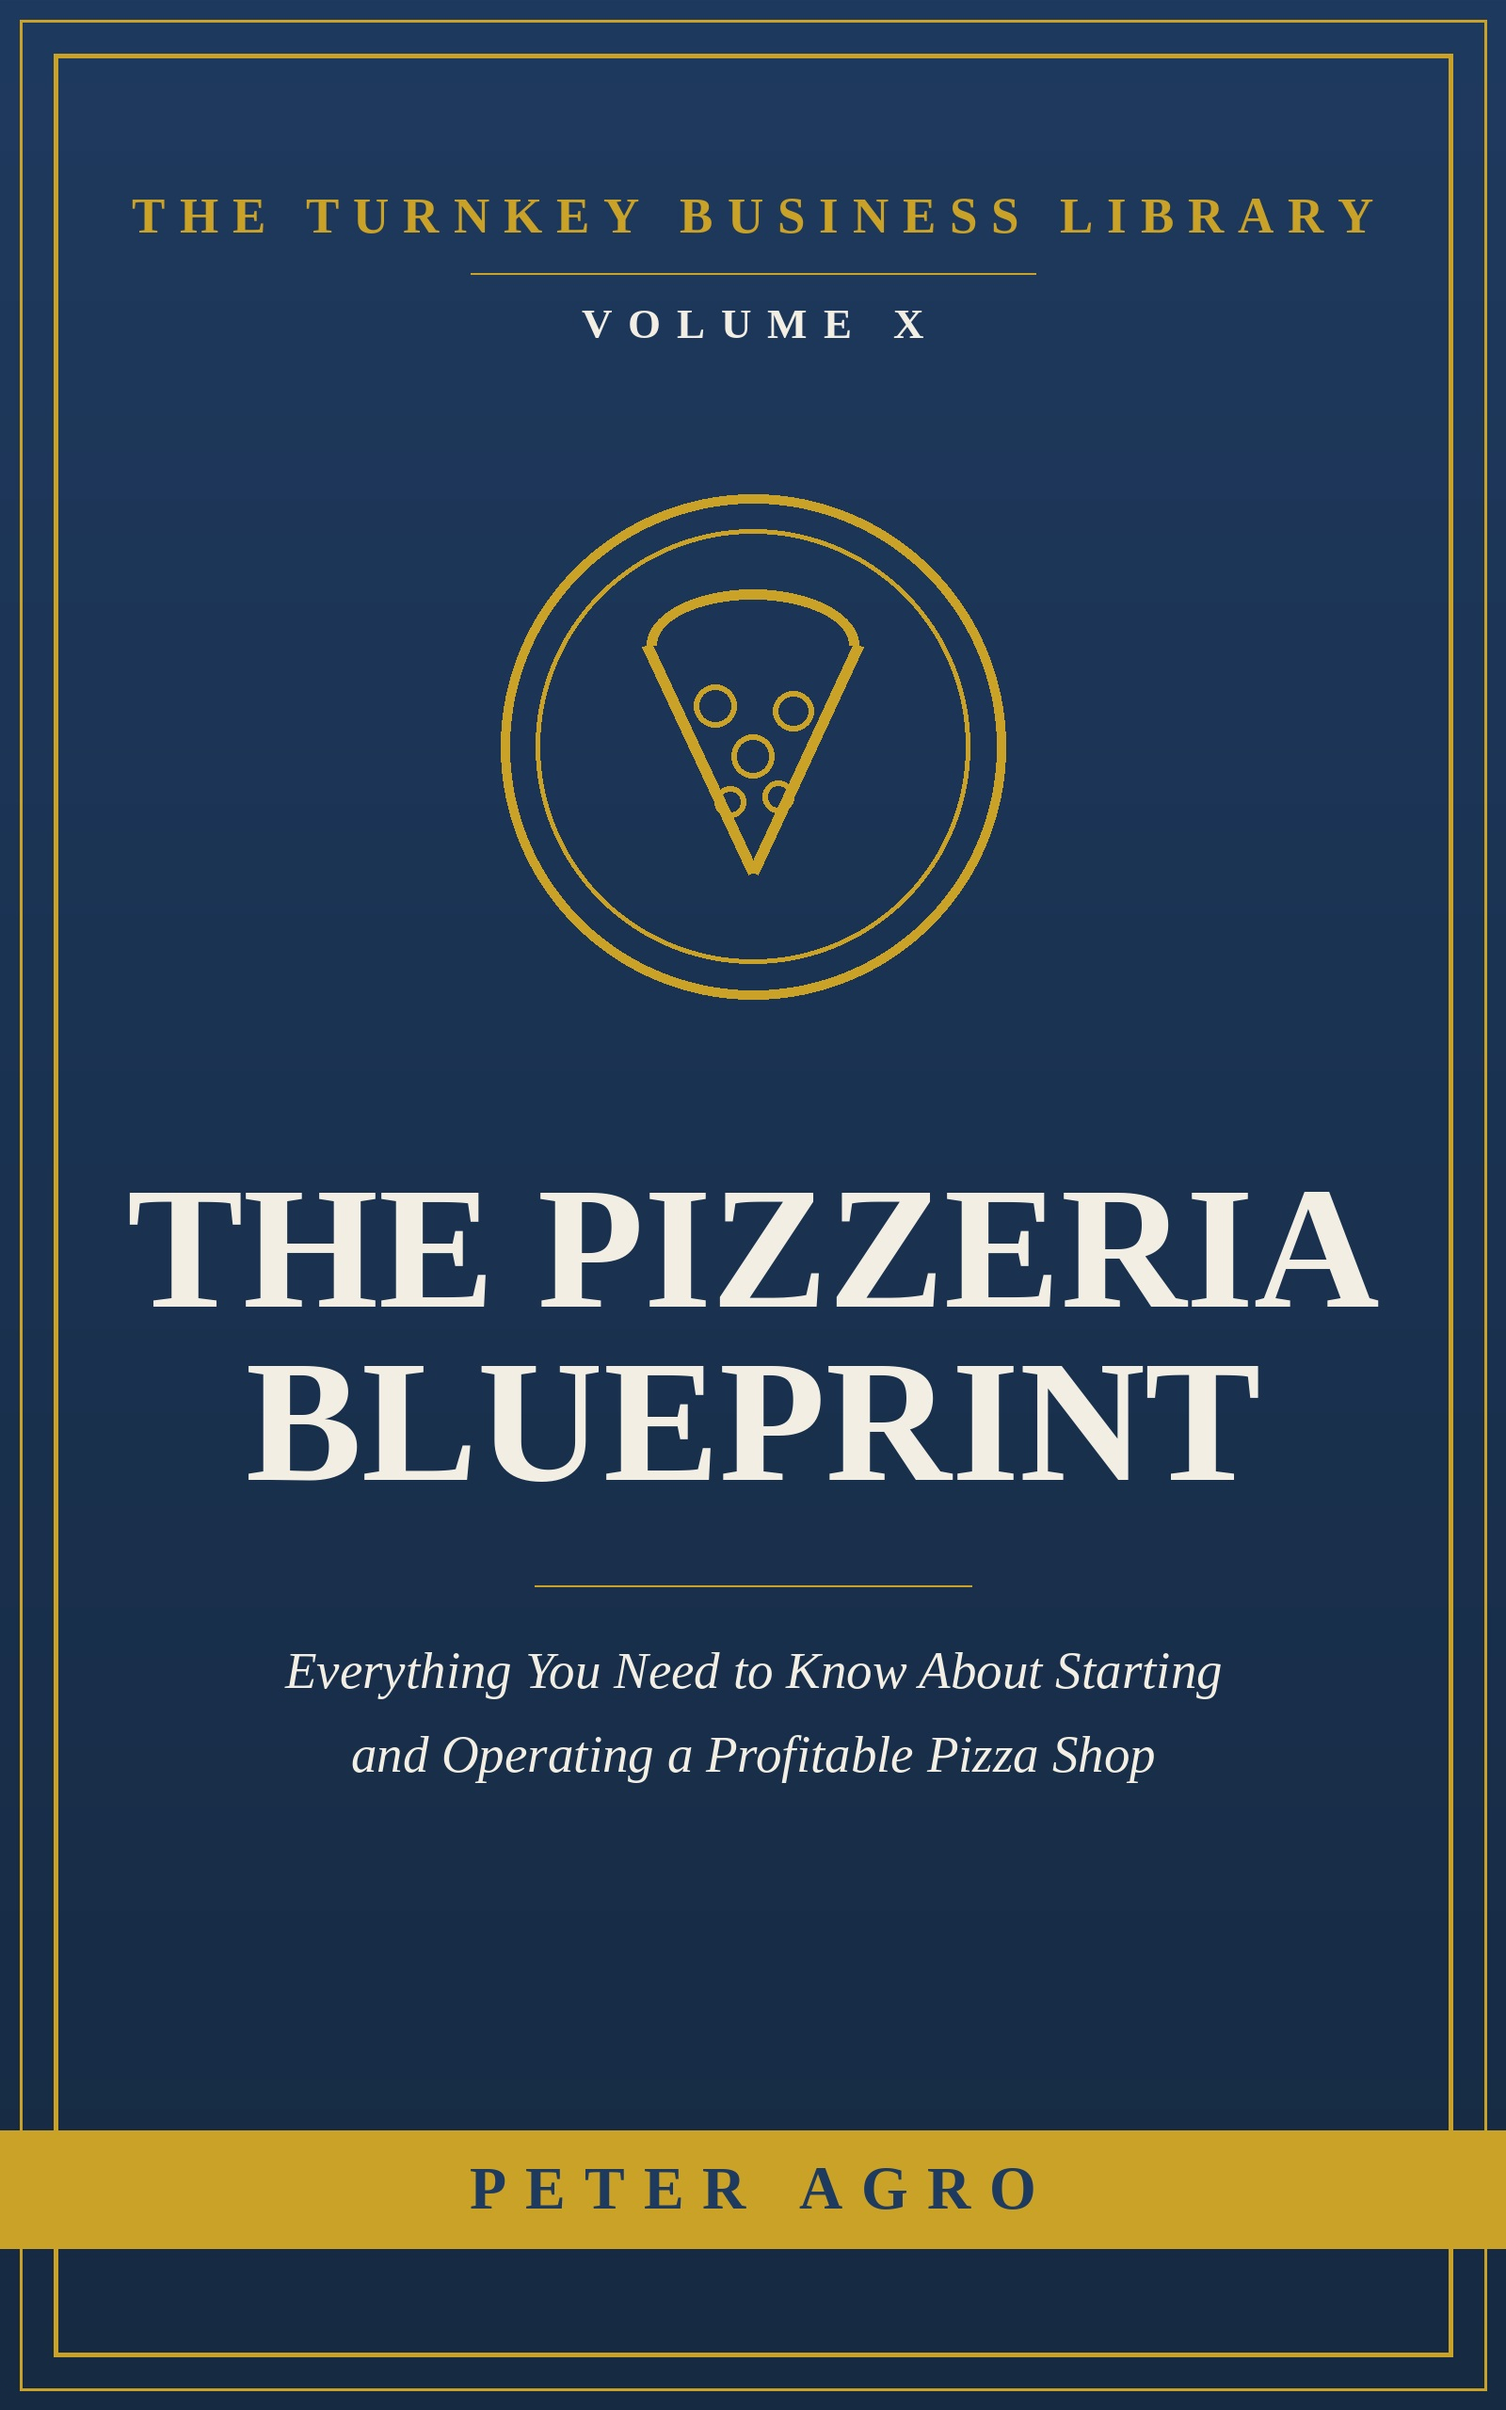
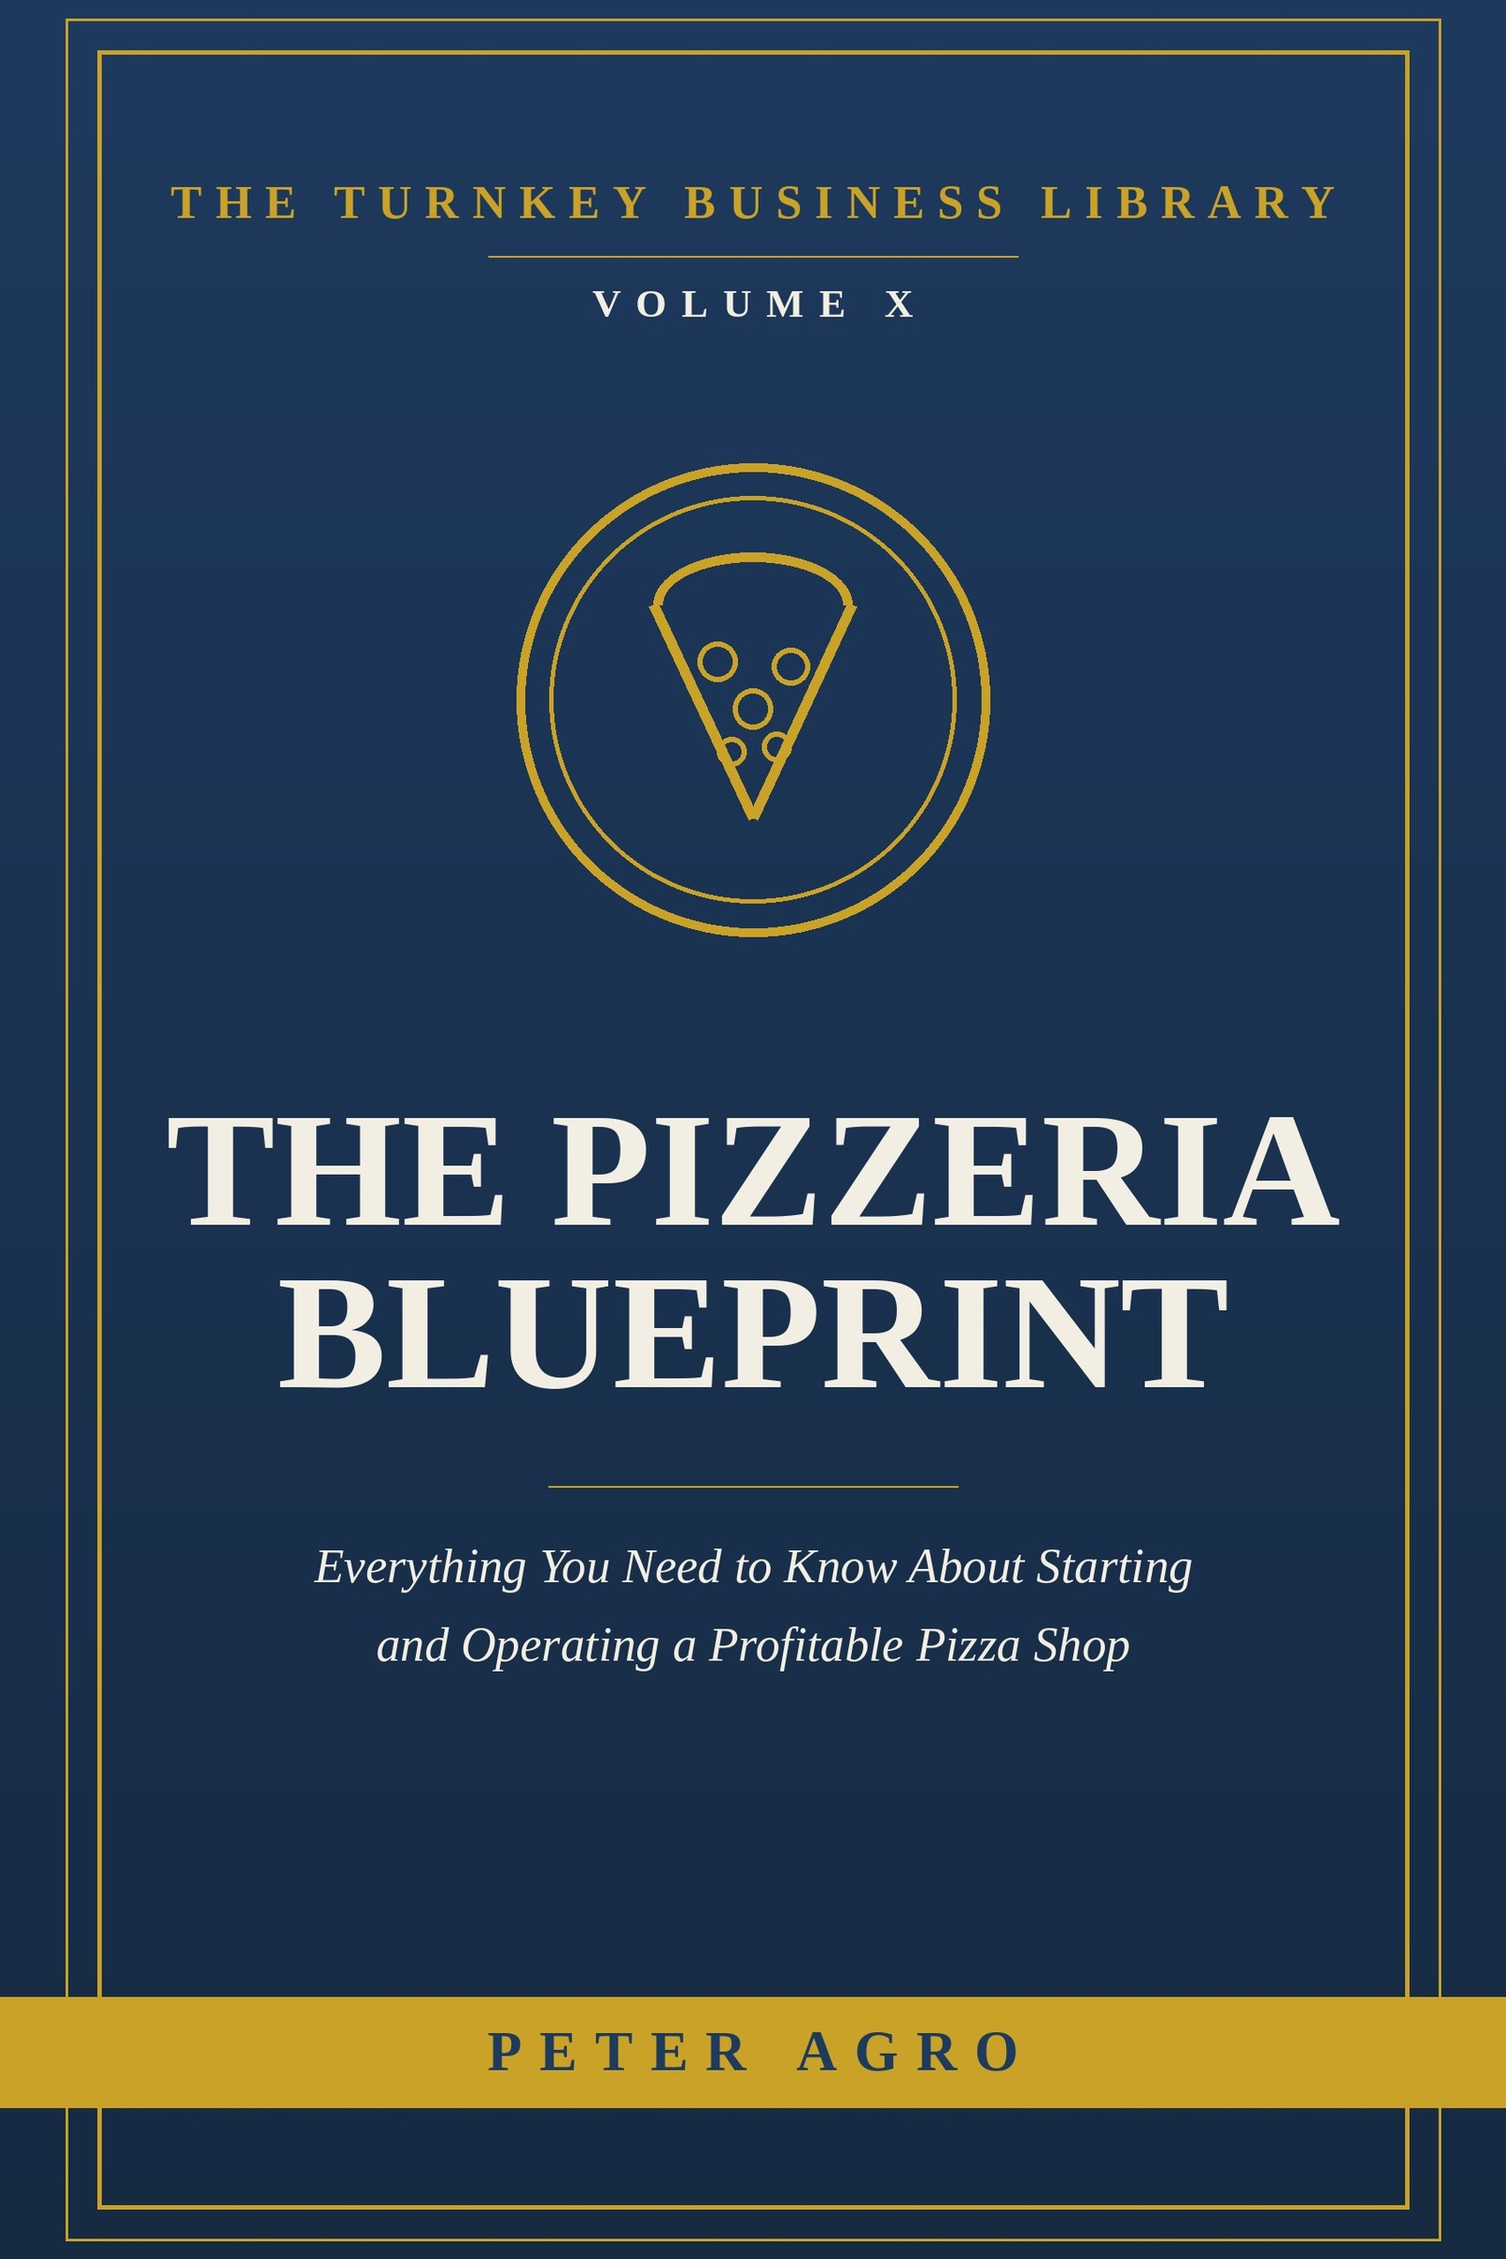
Add files via upload

diff --git a/index.html b/index.html
@@ -73,7 +73,7 @@
     <div class="wrap">
       <div class="section-head">
         <p class="eyebrow">The Turnkey Business Library</p>
-        <h2>Thirteen books, one method</h2>
+        <h2>Learn how to buy, run, grow and sell your business</h2>
         <p>Each book takes a single unglamorous business and works it end to end &mdash; how to buy in or start, what the equipment really costs, how the daily operation runs, and how you would eventually sell. Every chapter carries a worked example with real arithmetic, a mistake that operators tend to make once, and a checklist you can act on the same week.</p>
       </div>
 
@@ -162,7 +162,7 @@
 
         <article class="book" id="pizzeria">
           <a href="https://www.amazon.com/dp/B0HG7RJKZ9?tag=peteragro-20" rel="noopener">
-            <img src="pizzeria.jpg" alt="Cover of The Pizzeria Blueprint" loading="lazy" width="520" height="832">
+            <img src="pizzeria.jpg" alt="Cover of The Pizzeria Blueprint" loading="lazy" width="520" height="780">
             <p class="book-vol">Volume X</p>
             <p class="book-title">The Pizzeria Blueprint</p>
           </a>
